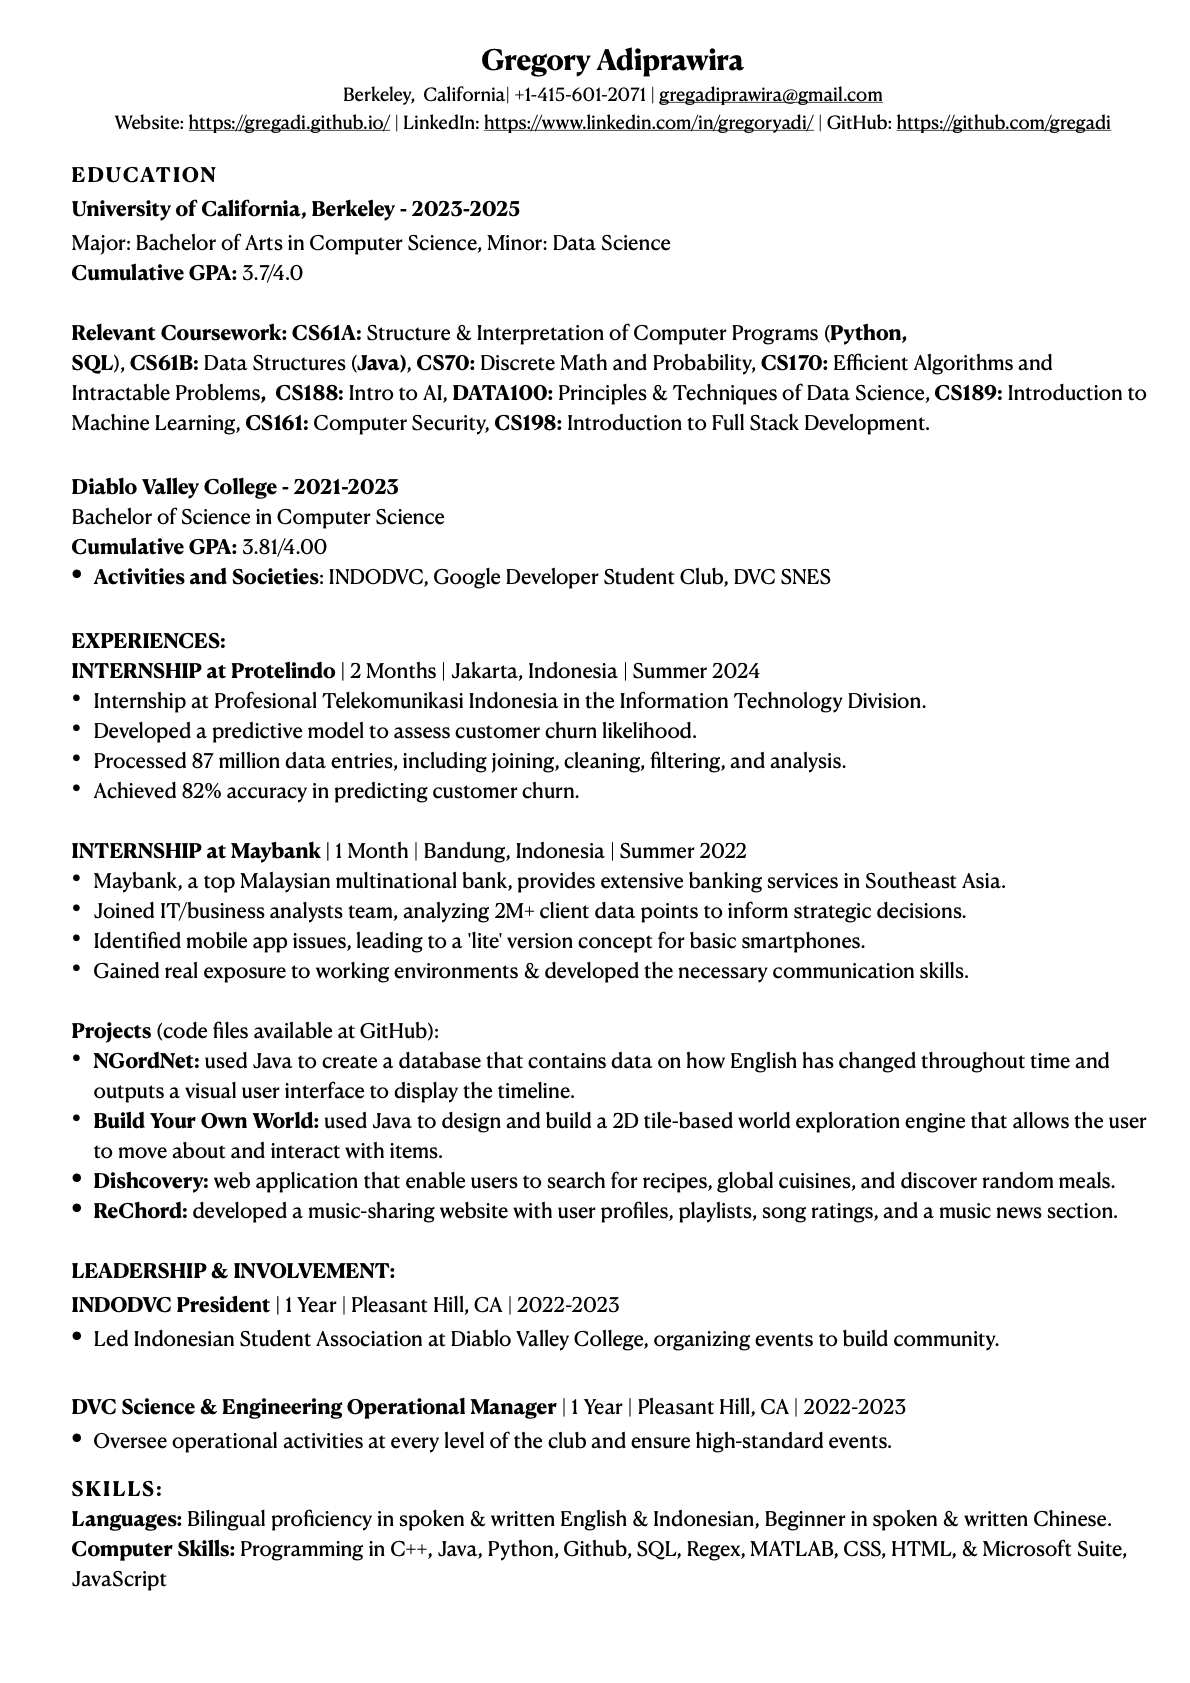
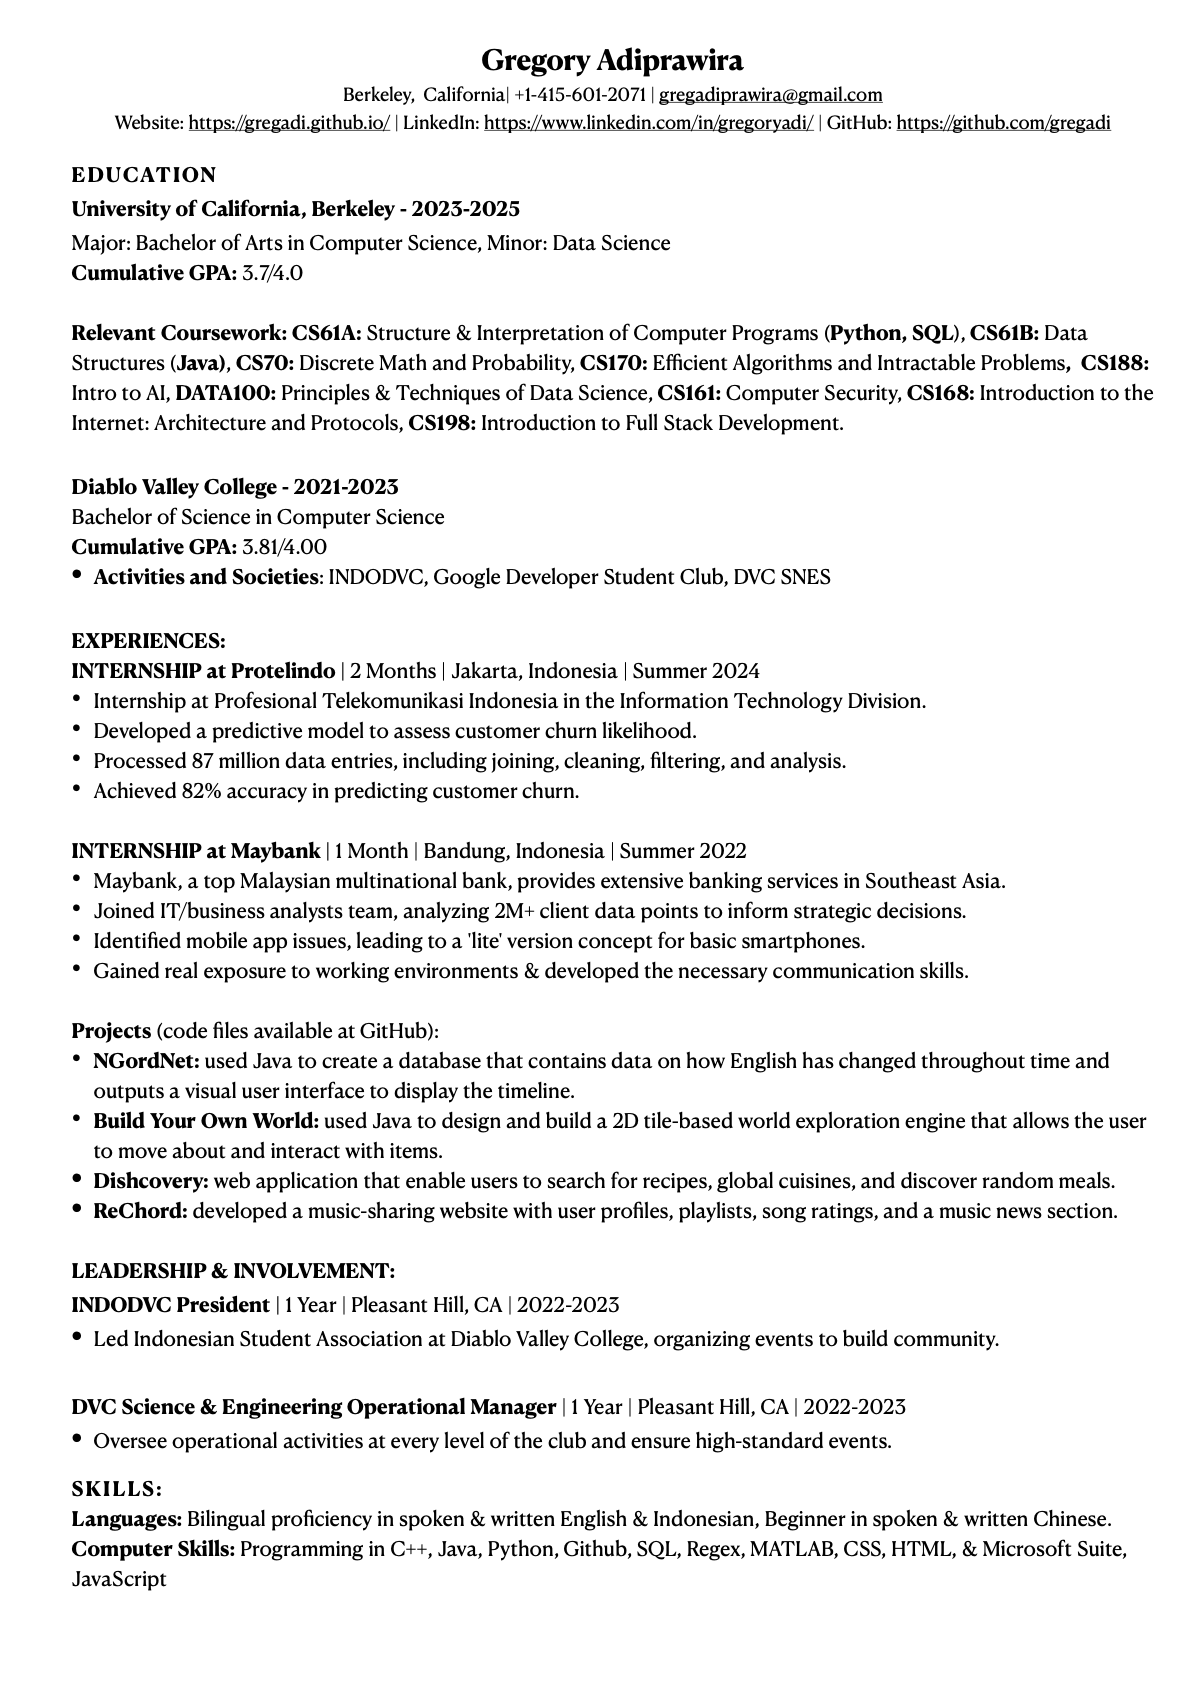
Edit Resume

Changed region(s): [[0.0622, 0.1854, 0.9639, 0.2781]]

diff --git a/about.html b/about.html
@@ -64,6 +64,7 @@
                         <li>CS70: Discrete Math and Probability</li>
                         <li>DATA100: Principles & Techniques of Data Science</li>
                         <li>CS161: Computer Security</li>
+                        <li>CS168: Introduction to the Internet: Architecture and Protocols</li>
                         <li>CS170: Efficient Algorithms and Intractable Problems</li>
                         <li>CS188: Introduction to Artificial Intelligence</li>
                         <li>CS198: Introduction to Full Stack Development.</li>
